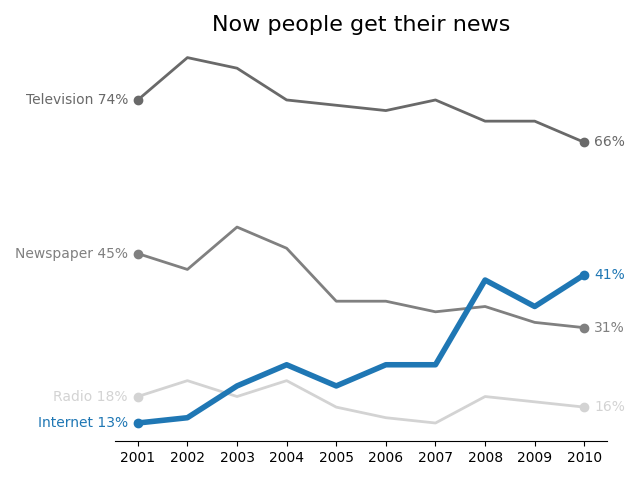
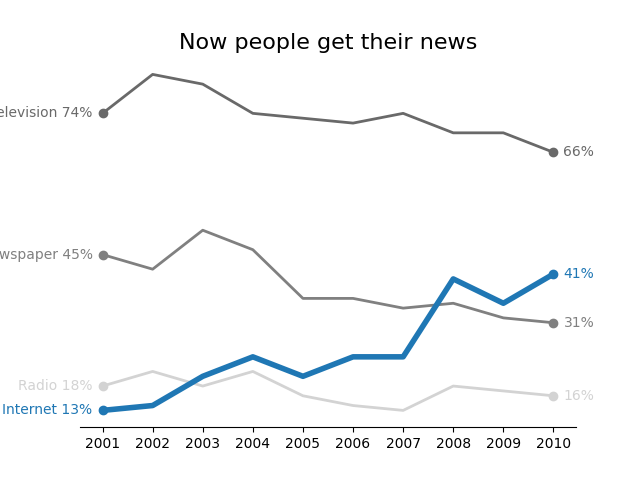
Lab7

diff --git a/homework/pregunta_01.py b/homework/pregunta_01.py
@@ -3,7 +3,9 @@ Escriba el codigo que ejecute la accion solicitada en cada pregunta.
 """
 
 # pylint: disable=import-outside-toplevel
-
+import pandas as pd
+import matplotlib.pyplot as plt
+import os
 
 def pregunta_01():
     """
@@ -16,7 +18,84 @@ def pregunta_01():
     El gráfico debe salvarse al archivo `files/plots/news.png`.
 
     """
+    plt.figure()
+    colors = {"Television":"dimgray",
+            "Newspaper": "grey",
+            "Internet": "tab:blue",
+            "Radio": "Lightgrey",
+            }
+    zorder = {"Television": 1,
+            "Newspaper": 1,
+            "Internet": 2,
+            "Radio": 1,
+            }
+    linewidths = {"Television": 2,
+            "Newspaper": 2,
+            "Internet": 4,
+            "Radio": 2,
+            }
+
+    df = pd.read_csv("files/input/news.csv", index_col=0)
+    for col in df.columns:
+        plt.plot(
+            df[col], 
+            color=colors[col],
+            label=col,
+            zorder=zorder[col],
+            linewidth=linewidths[col],
+            )
+
+    plt.title("Now people get their news", fontsize=16)
+    plt.gca().spines["top"].set_visible(False)
+    plt.gca().spines["left"].set_visible(False)
+    plt.gca().spines["right"].set_visible(False)
+    plt.gca().axes.get_yaxis().set_visible(False)
+
+    for col in df.columns:
+        first_year = df[col].index[0]
+        plt.scatter(
+            x=first_year,
+            y=df[col][first_year],
+            color=colors[col],
+            zorder=zorder[col],
+        )
+        plt.text(
+            first_year -0.2,
+            df[col][first_year],
+            col + " "+ str(df[col][first_year]) + "%",
+            ha = "right",
+            va = "center",
+            color = colors[col],
+        )
+
+
+        last_year = df[col].index[-1]
+        plt.scatter(
+            x=last_year,
+            y=df[col][last_year],
+            color=colors[col],
+            zorder=zorder[col],
+        )
+
+        plt.text(
+            last_year + 0.2,
+            df[col][last_year],
+            str(df[col][last_year]) + "%",
+            ha = "left",
+            va = "center",
+            color = colors[col],
+        )
+    plt.xticks(
+        ticks=df.index,
+        labels=df.index,
+        ha = "center",
+    )
+    os.makedirs(os.path.dirname("files/plots/news.png"), exist_ok=True)
+    plt.savefig("files/plots/news.png")
+    plt.show()
     
+if __name__ == "__main__":
+    pregunta_01()
 
 
 
